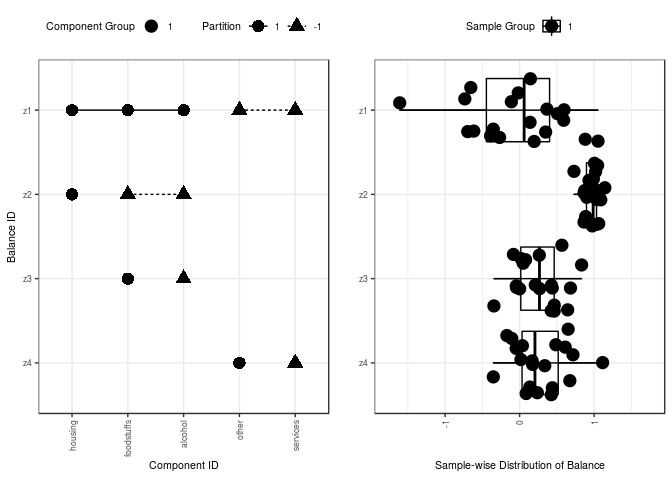
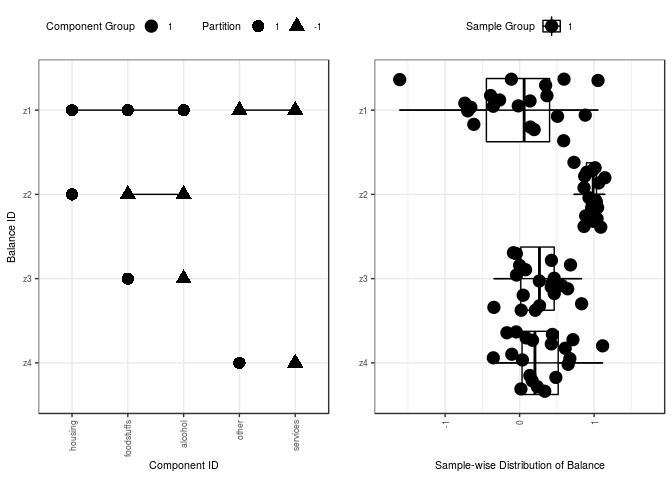
Fix overflow from geometric mean calculation

Changed region(s): [[0.7188, 0.5, 0.9062, 0.8438], [0.6562, 0.1562, 0.9062, 0.5], [0.5625, 0.1562, 0.625, 0.2188]]

diff --git a/NEWS.md b/NEWS.md
@@ -1,3 +1,9 @@
+## balance 0.0.5
+---------------------
+* Update `balance` method
+    * Compute balances using `exp(mean(log(x)))` to prevent overflow
+    * Remove "linetype" aesthetic from partition figure
+
 ## balance 0.0.4
 ---------------------
 * Update `balance` method
